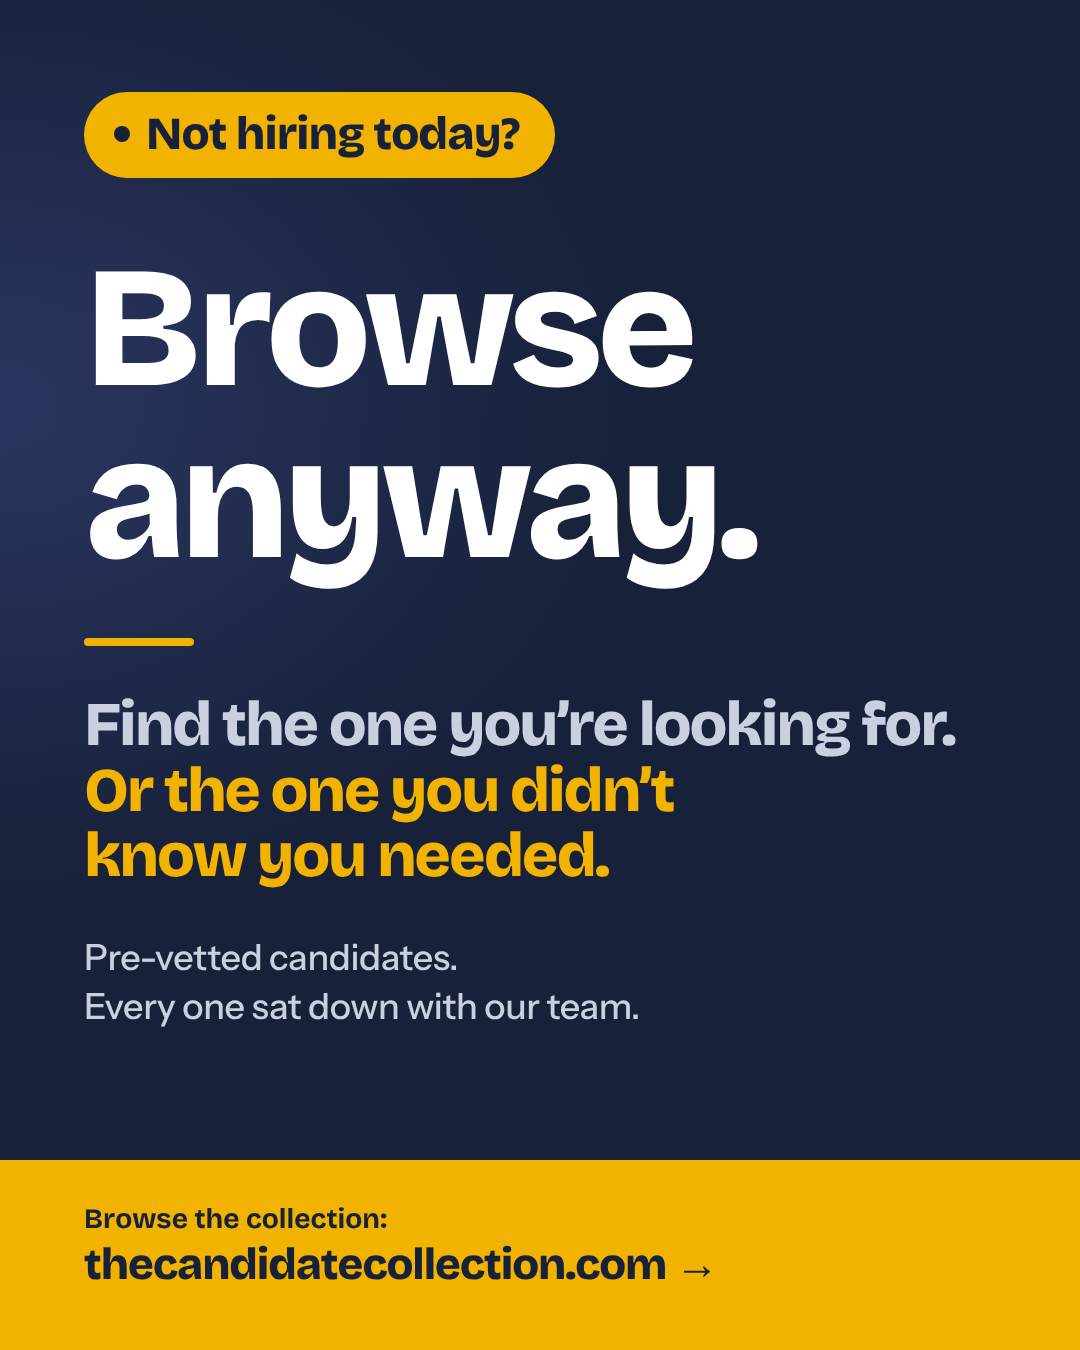
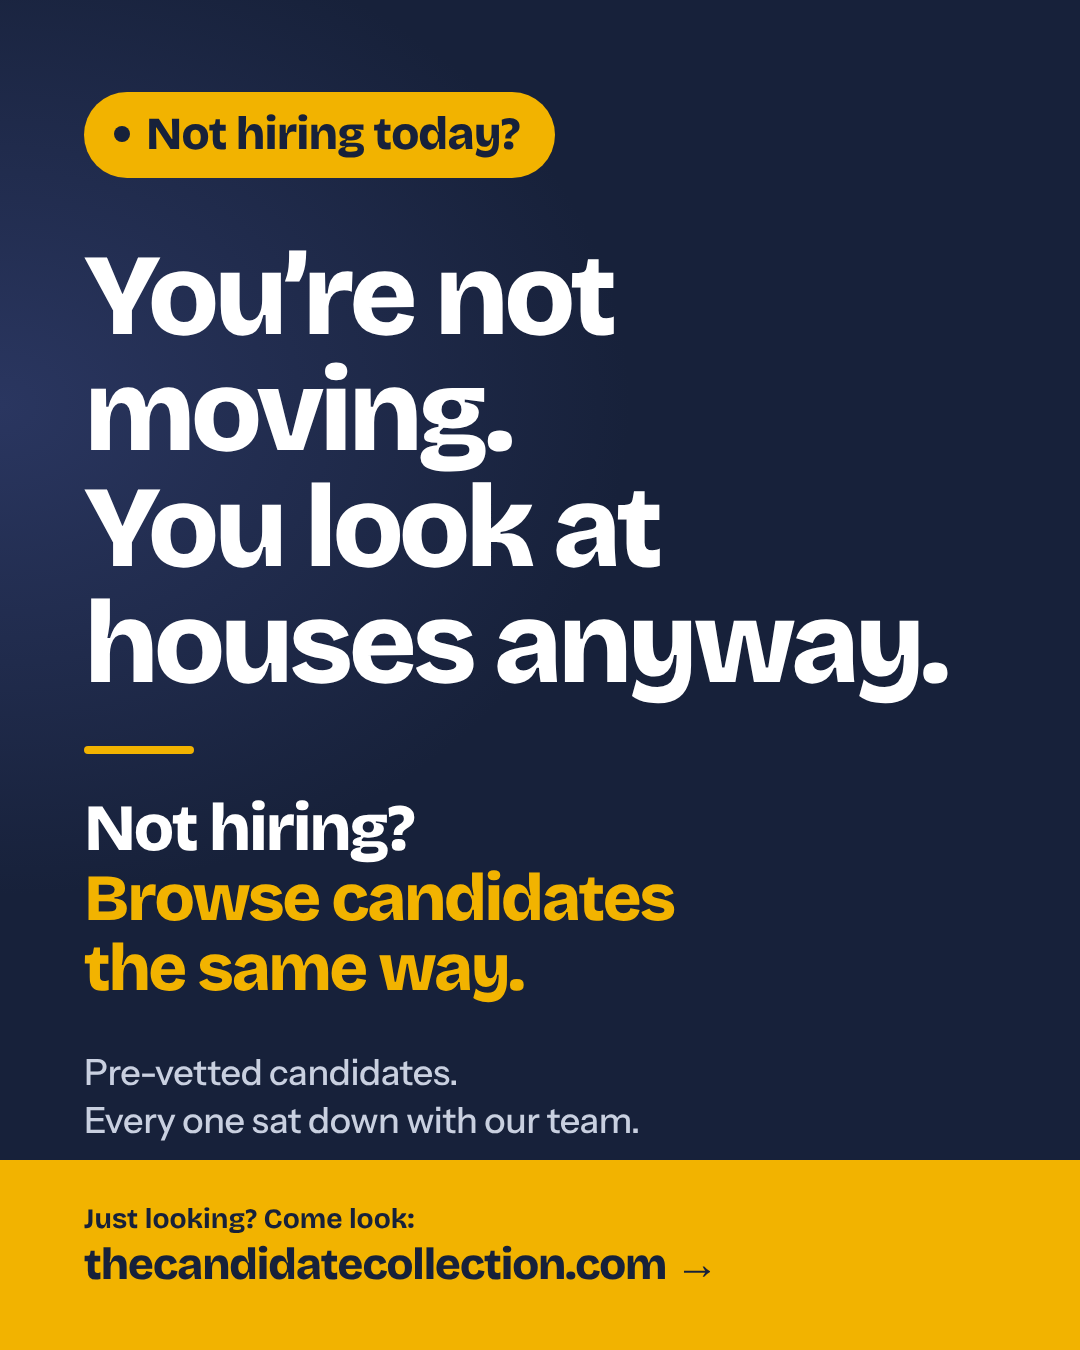
Just looking: a story page with real cards; cleaner top on the Browse page; poster reworded
Claude-Session: https://claude.ai/code/session_01EZeEyNzeQFPN4DFsUvzuMe

Changed region(s): [[0.0611, 0.1867, 0.8861, 0.84], [0.0917, 0.8711, 0.3667, 0.9333]]

diff --git a/src/app/just-looking/page.tsx b/src/app/just-looking/page.tsx
@@ -1,89 +1,76 @@
 import type { Metadata } from "next";
 import Link from "next/link";
-import { keepCandidatesOut } from "@/lib/candidateMode";
+import { CandidateCard } from "@/components/CandidateCard";
 import { Seen } from "@/components/Seen";
+import { keepCandidatesOut } from "@/lib/candidateMode";
+import { allListed, getTiers, interviewingIds } from "@/lib/catalog";
+import { feeFor } from "@/lib/format";
 import styles from "./looking.module.css";
 
+export const dynamic = "force-dynamic";
+
 export const metadata: Metadata = {
-  title: "Not hiring today? Browse anyway",
-  description: "Find the one you're looking for, or the one you didn't know you needed. Browse pre-vetted candidates any day, hiring or not.",
+  title: "Just looking?",
+  description: "You're not moving, and you look at houses anyway. Browse pre-vetted candidates the same way, hiring or not.",
 };
 
-// For the owner who likes to look: why browsing makes sense even when there's
-// no opening today. Reached from posters, the Browse page and the footer; it is
-// deliberately not in the top menu.
+// For the owner who likes to look. A short story, then real people to scroll.
+// Reached from posters and the footer; deliberately not in the top menu.
 export default async function JustLookingPage() {
   await keepCandidatesOut();
+  const [{ rows }, tiers, busy] = await Promise.all([allListed(), getTiers(), interviewingIds()]);
+  const newest = [...rows].sort((a, b) => String(b.listed_at ?? "").localeCompare(String(a.listed_at ?? ""))).slice(0, 4);
   return (
-    <>
+    <div className={styles.page}>
       <Seen step="just_looking" />
-      <section className={styles.hero}>
-        <div className="wrap">
-          <p className={styles.label}>Not hiring today?</p>
-          <h1>
-            Find the one you&rsquo;re looking for. <span>Or the one you didn&rsquo;t know you needed.</span>
-          </h1>
-          <p className={styles.lead}>
-            Most business owners look at who&rsquo;s available only on the day they need someone. The collection is
-            open every day. Come look whenever you like, the way people look at houses long before they move.
-          </p>
-          <Link href="/candidates" className="btn btn-gold btn-big">
-            Browse candidates
-          </Link>
-        </div>
+      <section className={`wrap ${styles.story}`}>
+        <p className={styles.label}>Just looking?</p>
+        <h1>
+          You&rsquo;re not moving. <span>You look at houses anyway.</span>
+        </h1>
+
+        <p>It&rsquo;s late. The house is quiet. And you&rsquo;re on your phone, three towns over, standing in a kitchen you will never cook in.</p>
+        <p>You&rsquo;re not buying. You&rsquo;re just looking.</p>
+        <p className={styles.beat}>Then one stops your thumb.</p>
+        <p>
+          The porch. The light in that kitchen. A minute ago you weren&rsquo;t in the market, and now you&rsquo;re holding
+          out your phone: <em>look at this one.</em>
+        </p>
+        <p>That little jolt is the whole reason we scroll.</p>
+
+        <h2>We built that, for hiring.</h2>
+
+        <p>A collection of people instead of houses. Every one of them sat down with our team before they went up.</p>
+        <p>Scroll through them tonight. Nobody calls you. Nobody knows you looked.</p>
+        <p>Stop on the one who catches you. Read what they&rsquo;re great at. Tap the heart. Sleep on it.</p>
+        <p>Most nights, that&rsquo;s all it is. A good scroll.</p>
+        <p className={styles.beat}>
+          And then one night you find the one you&rsquo;re looking for. <span>Or the one you didn&rsquo;t know you needed.</span>
+        </p>
+
+        <Link href="/candidates" className="btn btn-gold btn-big">
+          Start scrolling
+        </Link>
       </section>
 
-      <section className={`wrap ${styles.body}`}>
-        <h2>Why owners browse when they&rsquo;re not hiring</h2>
-        <ul className={styles.reasons}>
-          <li>
-            <h3>You see who&rsquo;s out there before you need them.</h3>
-            <p>When a seat opens, you&rsquo;re not starting from zero. You already know the kind of people who are available.</p>
-          </li>
-          <li>
-            <h3>Sometimes you spot a person worth making room for.</h3>
-            <p>The right person can show up before the opening does. When you see them, the choice is yours.</p>
-          </li>
-          <li>
-            <h3>When you&rsquo;re ready, you know who you want to meet.</h3>
-            <p>Go straight to the people you saved, and skip the search.</p>
-          </li>
-        </ul>
-
-        <h2>How to browse</h2>
-        <div className={styles.how}>
-          <div>
-            <h3>Open any profile</h3>
-            <p>Every candidate sat down with our team first. Each profile tells you, in plain words, what they&rsquo;re great at.</p>
+      {newest.length > 0 && (
+        <section className={styles.feed}>
+          <div className="wrap">
+            <h2>Go ahead. Here are the newest.</h2>
+            <div className="cards">
+              {newest.map((c) => (
+                <CandidateCard key={c.id} c={c} fee={feeFor(c, tiers)} href={`/candidates/${c.id}`} store interviewing={busy.has(c.id)} />
+              ))}
+            </div>
+            <div className={styles.more}>
+              <Link href="/candidates" className="btn btn-big">
+                Keep scrolling
+              </Link>
+              <p>One flat fee, only if you hire. Never a percentage of salary.</p>
+            </div>
           </div>
-          <div>
-            <h3>Tap the heart</h3>
-            <p>Save anyone who catches your eye to your shortlist, and come back to them later.</p>
-          </div>
-          <div>
-            <h3>Tell us a role</h3>
-            <p>
-              Leave a role and your cell number at the bottom of the{" "}
-              <Link href="/candidates">Browse page</Link>, and we&rsquo;ll text you when someone joins.
-            </p>
-          </div>
-        </div>
-        <p className={styles.fee}>One flat fee, only if you hire. Never a percentage of salary.</p>
-      </section>
-
-      <section className={styles.closing}>
-        <div className="wrap">
-          <h2>Take a look. See who&rsquo;s here.</h2>
-          <div className={styles.actions}>
-            <Link href="/candidates" className="btn btn-gold btn-big">
-              Browse candidates
-            </Link>
-            <Link href="/meet" className={`btn btn-ghost btn-big ${styles.light}`}>
-              Hiring now? Meet the team
-            </Link>
-          </div>
-        </div>
-      </section>
-    </>
+        </section>
+      )}
+    </div>
   );
 }

diff --git a/src/app/just-looking/looking.module.css b/src/app/just-looking/looking.module.css
@@ -1,26 +1,16 @@
-.hero { background: var(--ink); color: #fff; padding: clamp(52px, 8vw, 100px) 0 clamp(48px, 7vw, 88px); }
-.label { display: inline-block; margin: 0 0 22px; padding: 7px 18px 8px; border-radius: 999px; background: var(--marigold); color: var(--ink); font-family: var(--display); font-weight: 800; font-size: clamp(17px, 2vw, 21px); }
-.hero h1 { font-size: clamp(36px, 5.6vw, 66px); line-height: 1.04; letter-spacing: -0.03em; max-width: 17ch; }
-.hero h1 span { display: block; color: var(--marigold); }
-.lead { margin: 24px 0 30px; font-size: clamp(18px, 2.1vw, 22px); line-height: 1.55; color: rgba(255, 255, 255, 0.85); max-width: 50ch; }
+.page { background: var(--ink); }
+.story { max-width: 760px; color: #fff; padding-top: clamp(48px, 8vw, 96px); padding-bottom: clamp(56px, 8vw, 100px); }
+.label { display: inline-block; margin: 0 0 24px; padding: 7px 18px 8px; border-radius: 999px; background: var(--marigold); color: var(--ink); font-family: var(--display); font-weight: 800; font-size: clamp(17px, 2vw, 21px); }
+.story h1 { font-size: clamp(40px, 7vw, 76px); line-height: 1.02; letter-spacing: -0.035em; margin: 0 0 clamp(36px, 5vw, 56px); }
+.story h1 span { display: block; color: var(--marigold); }
+.story p { margin: 0 0 1.25em; font-size: clamp(20px, 2.5vw, 26px); line-height: 1.5; color: rgba(255, 255, 255, 0.82); max-width: 30em; }
+.story em { font-style: italic; color: #fff; }
+.story p.beat { font-family: var(--display); font-weight: 800; font-size: clamp(27px, 3.8vw, 40px); line-height: 1.15; letter-spacing: -0.02em; color: #fff; margin: 1.3em 0 1em; }
+.beat span { display: block; color: var(--marigold); }
+.story h2 { font-size: clamp(34px, 5.4vw, 58px); line-height: 1.05; letter-spacing: -0.03em; color: var(--marigold); margin: clamp(52px, 8vw, 92px) 0 clamp(26px, 4vw, 40px); }
+.story :global(.btn) { margin-top: 14px; }
 
-.body { max-width: 900px; padding-top: clamp(44px, 6vw, 76px); padding-bottom: clamp(36px, 5vw, 60px); }
-.body h2 { font-size: clamp(26px, 3.4vw, 36px); line-height: 1.12; margin: 0 0 22px; }
-.reasons { list-style: none; margin: 0 0 clamp(44px, 6vw, 68px); padding: 0; display: grid; gap: 18px; }
-.reasons li { border-left: 5px solid var(--marigold); padding: 4px 0 4px 20px; }
-.reasons h3 { font-size: clamp(20px, 2.4vw, 24px); line-height: 1.2; margin: 0 0 6px; }
-.reasons p, .how p { margin: 0; font-size: 17.5px; line-height: 1.6; color: var(--ink-2); }
-.how { display: grid; grid-template-columns: repeat(3, 1fr); gap: 16px; }
-.how > div { background: #fff; border: 1.5px solid var(--line); border-radius: 16px; padding: 20px 20px 22px; }
-.how h3 { font-size: 19px; margin: 0 0 8px; }
-.how a { font-weight: 700; }
-.fee { margin: 26px 0 0; font-size: 16px; color: var(--ink-3); }
-
-.closing { background: var(--ink); color: #fff; text-align: center; padding: clamp(48px, 7vw, 84px) 0; }
-.closing h2 { font-size: clamp(28px, 4.4vw, 44px); margin: 0 auto; }
-.actions { display: flex; gap: 12px; justify-content: center; flex-wrap: wrap; margin-top: 26px; }
-.light { color: #fff !important; border-color: rgba(255, 255, 255, 0.5) !important; }
-
-@media (max-width: 760px) {
-  .how { grid-template-columns: 1fr; }
-}
+.feed { background: var(--paper); padding: clamp(44px, 6vw, 76px) 0 clamp(48px, 7vw, 84px); }
+.feed h2 { font-size: clamp(26px, 3.6vw, 38px); margin: 0 0 24px; }
+.more { text-align: center; margin-top: 32px; }
+.more p { margin: 16px 0 0; font-size: 15px; color: var(--ink-3); }

diff --git a/src/lib/shareKit.ts b/src/lib/shareKit.ts
@@ -59,11 +59,11 @@ export function ownerKits(ref?: string | null): Kit[] {
     { id: "concept-talk-browse", name: "Talk or browse", tag: "New", about: "Tell us the position, or browse the candidates yourself.", image: "/share/owner-concept-talk-browse.png", message: concept(ref, "We've already met the candidates. Tell us the position you're hiring for, or browse them yourself."), link },
     {
       id: "browse-anyway",
-      name: "Browse anyway",
+      name: "Just looking",
       tag: "New",
       about: "For owners who aren't hiring today but like to look. Opens the page that explains why.",
       image: "/share/owner-browse-anyway.png",
-      message: `Not hiring today? Browse anyway.\n\nFind the one you're looking for. Or the one you didn't know you needed.\n\nPre-vetted candidates. Every one sat down with our team.\n\nTake a look: ${siteUrl()}/just-looking${ref ? `?r=${refSlug(ref)}` : ""}`,
+      message: `You're not moving. You look at houses anyway.\n\nNot hiring? Browse candidates the same way.\n\nPre-vetted candidates. Every one sat down with our team.\n\nTake a look: ${siteUrl()}/just-looking${ref ? `?r=${refSlug(ref)}` : ""}`,
       link: `${siteUrl()}/just-looking${ref ? `?r=${refSlug(ref)}` : ""}`,
     },
     { id: "half-hour", name: "Half an hour", tag: "Shloimy recommends", about: "The promise: a candidate to consider in half an hour.", image: "/share/owner-teaser.png", message: ownerTeaser(ref), link },

diff --git a/design/posters/browse-anyway.html b/design/posters/browse-anyway.html
@@ -19,9 +19,9 @@ h2 span{color:#f2b300;display:block}.bar{width:110px;height:8px;border-radius:4p
 .card .t{margin-top:26px;font-family:B;font-weight:800;font-size:25px;color:#3f7d4e;letter-spacing:.02em}
 </style><body class="p"><div class="in">
 <span class="pill"><i></i>Not hiring today?</span>
-<h1 style="font-size:172px;margin-top:64px">Browse<br>anyway.</h1>
-<div class="bar" style="margin:52px 0 46px"></div>
-<h2 style="font-size:62px">Find the one you&rsquo;re looking for. <span>Or the one you didn&rsquo;t<br>know you needed.</span></h2>
+<h1 style="font-size:116px;margin-top:60px">You&rsquo;re not moving.<br>You look at<br>houses anyway.</h1>
+<div class="bar" style="margin:44px 0 40px"></div>
+<h2 style="font-size:66px;color:#fff">Not hiring? <span>Browse candidates<br>the same way.</span></h2>
 <p class="s" style="font-size:36px;margin-top:44px">Pre-vetted candidates.<br>Every one sat down with our team.</p>
 </div>
-<div class="band"><div class="a">Browse the collection:</div><div class="b">thecandidatecollection.com →</div></div>
+<div class="band"><div class="a">Just looking? Come look:</div><div class="b">thecandidatecollection.com →</div></div>

diff --git a/src/app/candidates/page.tsx b/src/app/candidates/page.tsx
@@ -214,15 +214,10 @@ export default async function Catalog({ searchParams }: PageProps<"/candidates">
             </div>
           </div>
           {!shortlistView && (
-            <>
-              <p className="small muted" style={{ margin: "-6px 0 10px" }}>
-                Every person here sat down one-on-one with our team. Not hiring today?{" "}
-                <Link href="/just-looking">Here&rsquo;s why owners browse anyway.</Link>
-              </p>
-              <p className="fee-strip" style={{ marginBottom: 16 }}>
-                <strong>$5,000 flat fee</strong>, only if you hire. Never a percentage of salary. <Link href="/billing">Our billing philosophy</Link>
-              </p>
-            </>
+            <p className={styles.under}>
+              Every one sat down one-on-one with our team. <strong>$5,000 flat fee</strong>, only if you hire.{" "}
+              <Link href="/billing">Our billing philosophy</Link>
+            </p>
           )}
           {active.length > 0 && (
             <div className={styles.chips}>

diff --git a/src/app/candidates/catalog.module.css b/src/app/candidates/catalog.module.css
@@ -234,3 +234,6 @@
 .tellForm button { white-space: nowrap; }
 .tellFine { flex: 1 1 100%; font-size: 12.5px; line-height: 1.45; color: var(--ink-3); }
 .tellErr { flex: 1 1 100%; font-size: 14px; color: var(--rust); }
+
+.under { margin: -6px 0 18px; font-size: 15px; line-height: 1.5; color: var(--ink-2); }
+.under strong { color: var(--ink); }
